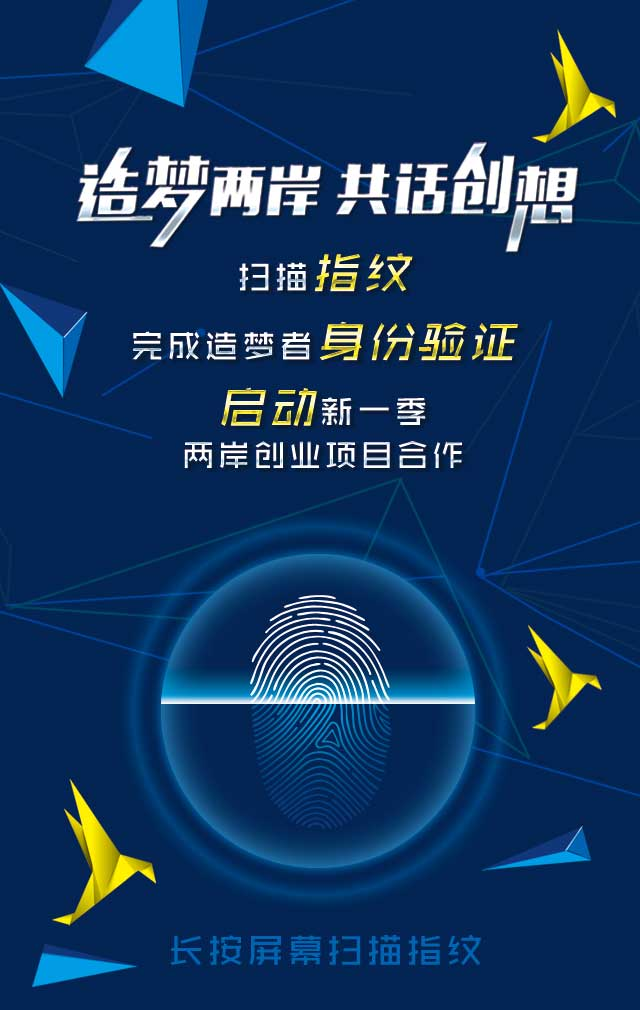
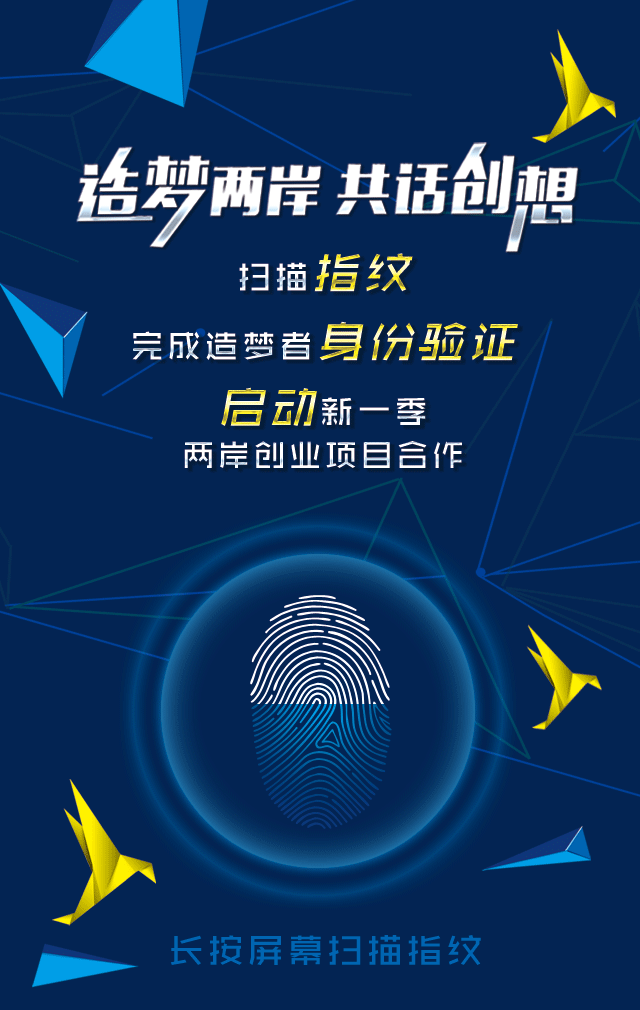
lacy:add animate

diff --git a/src/app/lacy-201501/script/mod/comfirm/body.scss b/src/app/lacy-201501/script/mod/comfirm/body.scss
@@ -10,4 +10,17 @@
         top: 55%;
         left: 25%;
     }
+    img.scan-line {
+        display: block;
+        position: absolute;
+        top: 63%;
+        left: 25%;
+        width: 49%;
+    }
+    .action {
+        animation-duration: 0.7s;
+        animation-name: scan-animatie;
+        animation-iteration-count: infinite;
+        animation-direction: alternate;
+    }
 }

diff --git a/src/app/lacy-201501/script/mod/comfirm/animate.css b/src/app/lacy-201501/script/mod/comfirm/animate.css
@@ -1,0 +1,9 @@
+ @keyframes scan-animatie {
+        from {
+            top: 50%;
+        }
+
+        to {
+            top: 78%;
+        }
+    }
